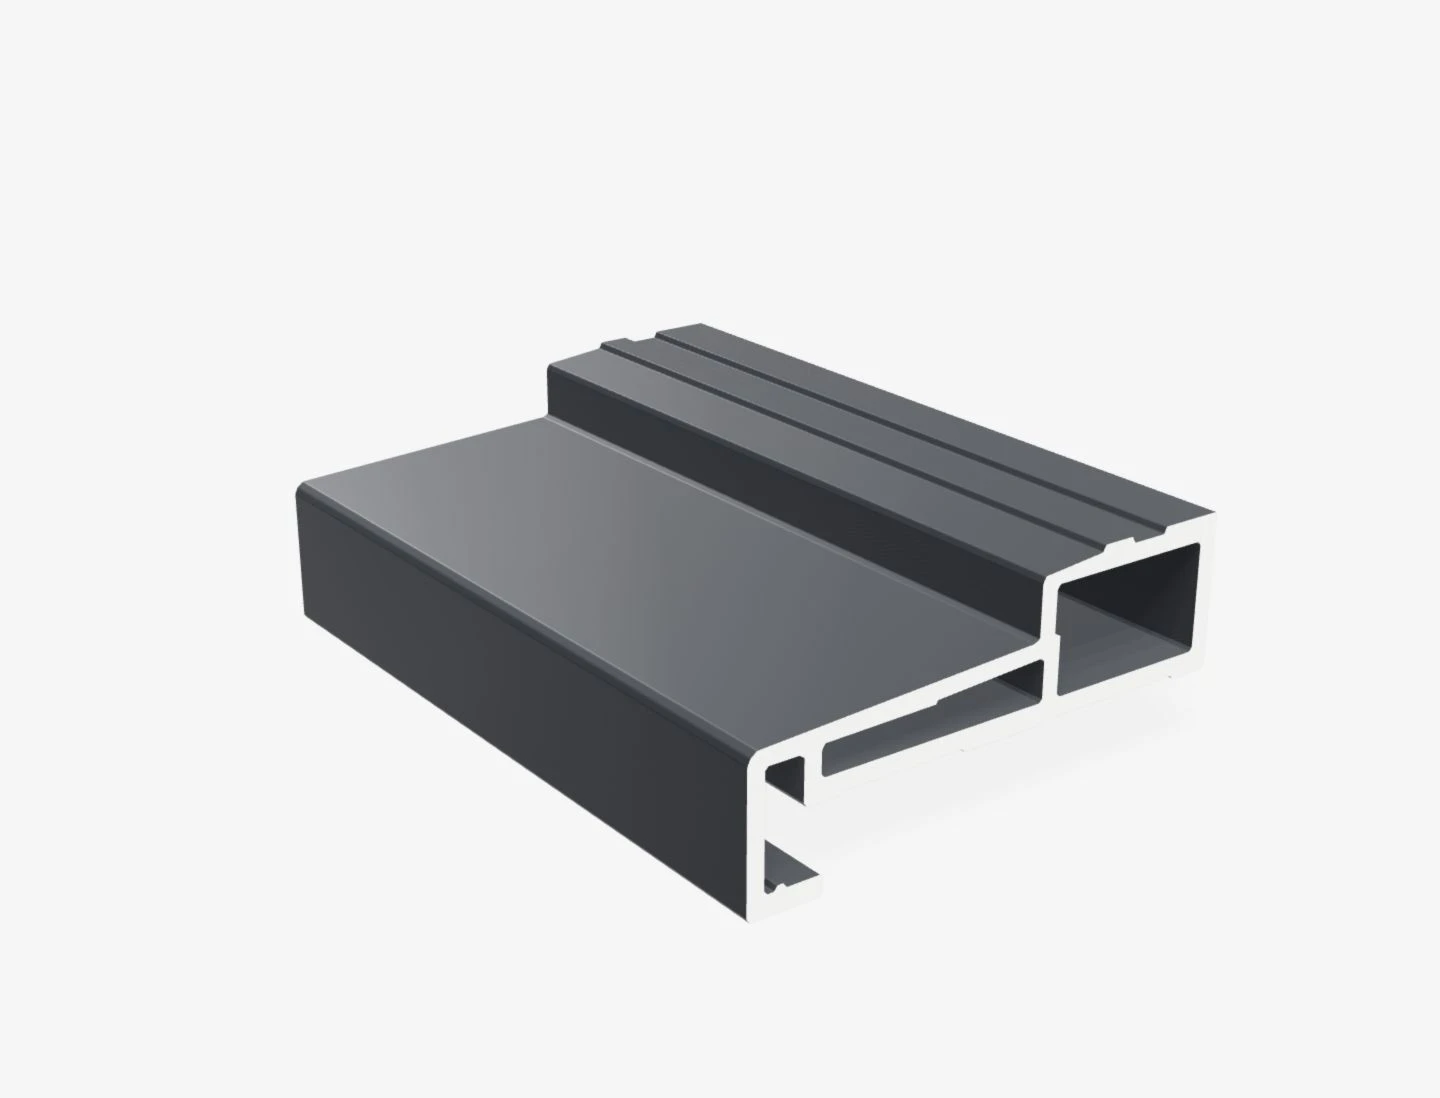
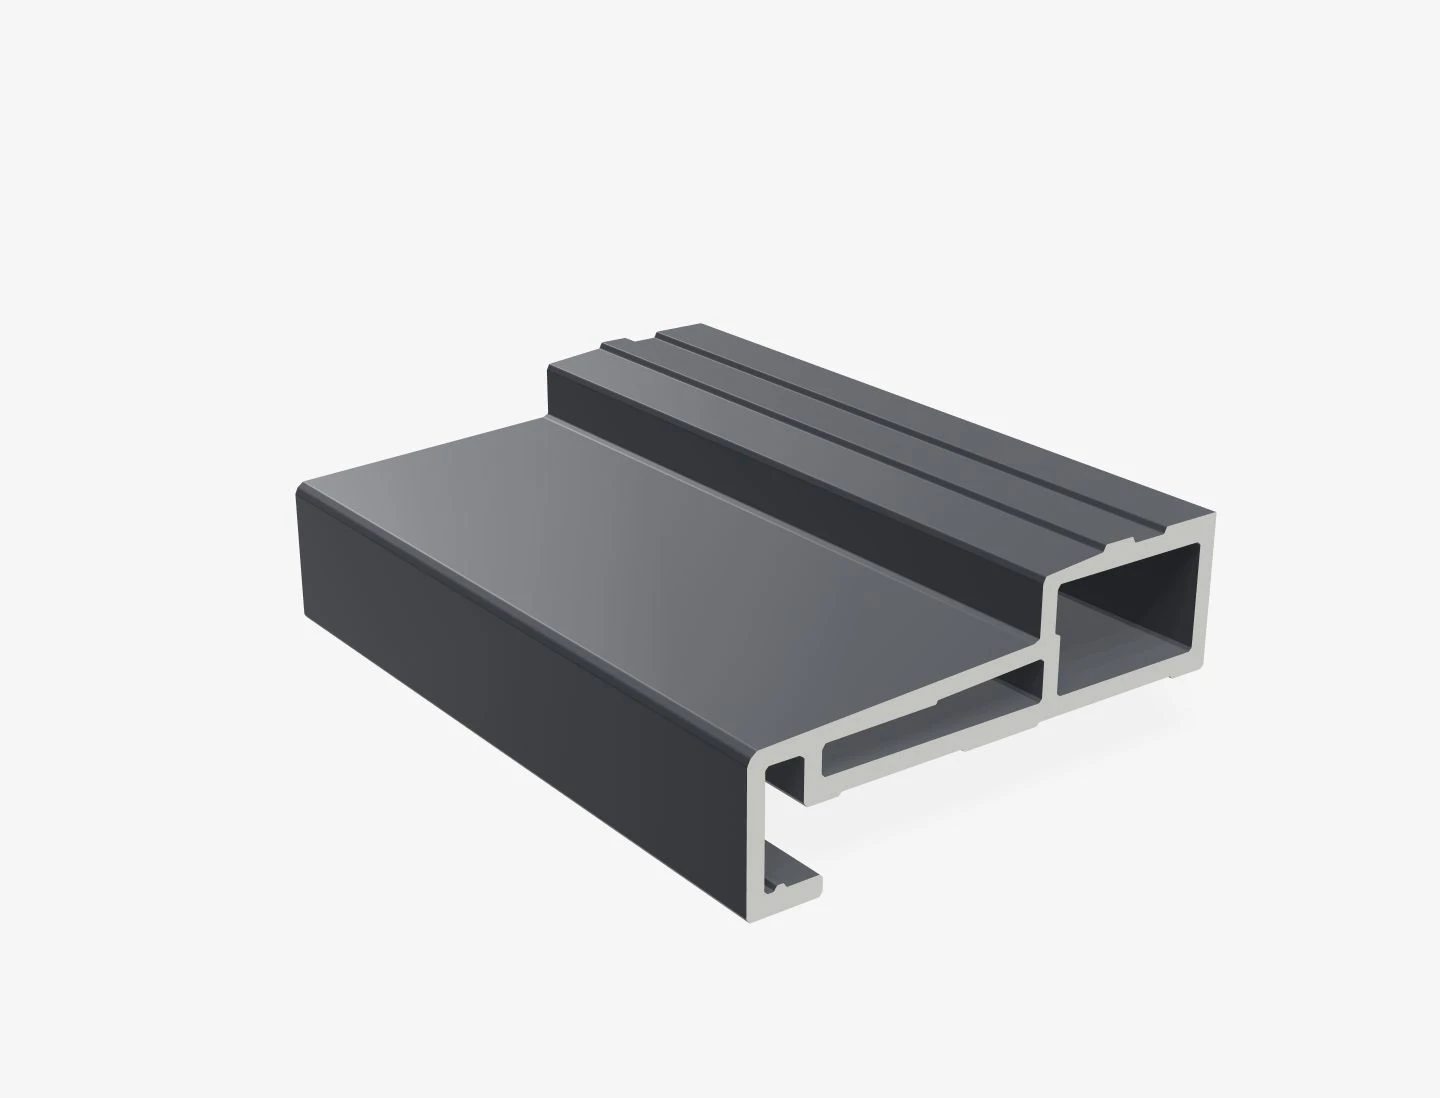
Clarify image 2 cut face against the light background

Changed region(s): [[0.5, 0.4645, 0.8438, 0.8361]]

diff --git a/scripts/threshold-render/README.md b/scripts/threshold-render/README.md
@@ -19,6 +19,10 @@ does not establish manufacturing tolerances. Profile 3 and its accepted image
 are retained. Outer and hole loops are explicitly oppositely wound so cavity
 walls remain visible with normal front-face rendering.
 
+Image 2 uses a neutral gray, unlit cut-face material so the open hooked edge
+and bottom support lands remain distinguishable from the pale floor/background.
+Its profile geometry and camera are unchanged by this readability adjustment.
+
 `scene.mjs` uses a shared perspective camera, lighting and surface materials.
 The renderer is an offline asset workbench; it adds no client-side Three.js to
 the threshold product page. Export each canvas and encode to WebP at quality 90.
